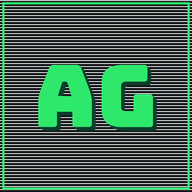
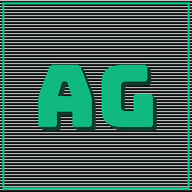
Troca o verde do site para verde esmeralda
Claude-Session: https://claude.ai/code/session_01K24T1nhc6RYEsYtFZXegcg

Changed region(s): [[0.0, 0.0, 1.0, 1.0], [0.1875, 0.3125, 0.5, 0.6875], [0.5312, 0.3125, 0.8125, 0.6875]]

diff --git a/app/page.js b/app/page.js
@@ -18,7 +18,7 @@ function FaixaNews({posts}) {
         <h2 className="text-5xl font-black tracking-[-.075em] text-paper sm:text-7xl lg:text-[6rem]">Notícias</h2>
         <Link href="/noticias" className="pb-2 text-sm font-bold uppercase tracking-wider text-arcade hover:text-paper">Mais notícias&nbsp; ›</Link>
       </div>
-      <div className="flex snap-x snap-mandatory gap-4 overflow-x-auto pb-5 sm:gap-6" style={{scrollbarWidth:"thin",scrollbarColor:"#9be22d transparent"}}>
+      <div className="flex snap-x snap-mandatory gap-4 overflow-x-auto pb-5 sm:gap-6" style={{scrollbarWidth:"thin",scrollbarColor:"#10b981 transparent"}}>
         {items.map((p)=><Link key={p.slug} href={`/noticia/${p.slug}`} className="group w-[83%] shrink-0 snap-start sm:w-[47%] lg:w-[32%]">
           <div className="aspect-[16/10] overflow-hidden rounded-lg bg-black">
             <img {...imgOtimizada(p.image,"(min-width: 1024px) 33vw, (min-width: 640px) 50vw, 100vw")} alt={p.imageAlt||p.title} loading="lazy" decoding="async" className="h-full w-full object-cover transition-transform duration-500 group-hover:scale-[1.025]" style={{objectPosition:p.imagePos||"center"}} />
@@ -40,7 +40,7 @@ function ArtigosEspeciais({posts}) {
         <h2 className="text-[2.5rem] font-black leading-none tracking-[-.065em] text-paper sm:text-6xl lg:text-[5rem]">Artigos especiais</h2>
         <Link href="/artigos" className="shrink-0 pb-1 text-xs font-bold uppercase tracking-wider text-arcade hover:text-paper sm:text-sm">Mais artigos&nbsp; ›</Link>
       </div>
-      <div className="flex snap-x snap-mandatory gap-4 overflow-x-auto pb-5 sm:gap-6" style={{scrollbarWidth:"thin",scrollbarColor:"#9be22d transparent"}}>
+      <div className="flex snap-x snap-mandatory gap-4 overflow-x-auto pb-5 sm:gap-6" style={{scrollbarWidth:"thin",scrollbarColor:"#10b981 transparent"}}>
         {items.map((p)=><Link key={p.slug} href={`/noticia/${p.slug}`} className="group w-[83%] shrink-0 snap-start sm:w-[47%] lg:w-[32%]">
           <div className="aspect-[16/10] overflow-hidden rounded-lg bg-black">
             <img {...imgOtimizada(p.image,"(min-width: 1024px) 33vw, (min-width: 640px) 50vw, 100vw")} alt={p.imageAlt||p.title} loading="lazy" decoding="async" className="h-full w-full object-cover transition-transform duration-500 group-hover:scale-[1.025]" style={{objectPosition:p.imagePos||"center"}} />
@@ -63,7 +63,7 @@ function FaixaEditorial({ posts, titulo, href, mais, categorias, id }) {
         <h2 className="text-[2.5rem] font-black leading-none tracking-[-.075em] text-paper sm:text-7xl lg:text-[6rem]">{titulo}</h2>
         <Link href={href} className="shrink-0 pb-2 text-xs font-bold uppercase tracking-wider text-arcade hover:text-paper sm:text-sm">{mais}&nbsp; ›</Link>
       </div>
-      <div className="flex snap-x snap-mandatory gap-4 overflow-x-auto pb-5 sm:gap-6" style={{scrollbarWidth:"thin",scrollbarColor:"#9be22d transparent"}}>
+      <div className="flex snap-x snap-mandatory gap-4 overflow-x-auto pb-5 sm:gap-6" style={{scrollbarWidth:"thin",scrollbarColor:"#10b981 transparent"}}>
         {items.map((p) => <Link key={p.slug} href={`/noticia/${p.slug}`} className="group w-[83%] shrink-0 snap-start sm:w-[47%] lg:w-[32%]">
           <div className="aspect-[16/10] overflow-hidden rounded-lg bg-black">
             <img {...imgOtimizada(p.image,"(min-width: 1024px) 33vw, (min-width: 640px) 50vw, 100vw")} alt={p.imageAlt||p.title} loading="lazy" decoding="async" className="h-full w-full object-cover transition-transform duration-500 group-hover:scale-[1.025]" style={{objectPosition:p.imagePos||"center"}} />

diff --git a/app/globals.css b/app/globals.css
@@ -10,25 +10,25 @@ body {
   @apply bg-ink text-paper font-body antialiased;
   /* Brilho verde ao fundo, no clima do logo da Xbox */
   background-image:
-    radial-gradient(ellipse 70% 38% at 50% 0%, rgba(155, 226, 45, 0.10), transparent 70%),
+    radial-gradient(ellipse 70% 38% at 50% 0%, rgba(16, 185, 129, 0.10), transparent 70%),
     radial-gradient(ellipse 80% 30% at 50% 100%, rgba(80, 170, 20, 0.12), transparent 75%);
   background-attachment: fixed;
 }
 
 /* Verde com brilho (neon) */
 .text-arcade {
-  text-shadow: 0 0 10px rgba(155, 226, 45, 0.55), 0 0 22px rgba(120, 210, 30, 0.25);
+  text-shadow: 0 0 10px rgba(16, 185, 129, 0.55), 0 0 22px rgba(5, 150, 105, 0.25);
 }
 .bg-arcade {
-  background-image: linear-gradient(180deg, #b8f04a 0%, #9be22d 45%, #6fb81c 100%);
-  box-shadow: 0 0 18px rgba(155, 226, 45, 0.45), inset 0 1px 0 rgba(255, 255, 255, 0.35);
+  background-image: linear-gradient(180deg, #34d399 0%, #10b981 45%, #059669 100%);
+  box-shadow: 0 0 18px rgba(16, 185, 129, 0.45), inset 0 1px 0 rgba(255, 255, 255, 0.35);
 }
 .border-arcade {
-  box-shadow: 0 0 14px rgba(155, 226, 45, 0.30);
+  box-shadow: 0 0 14px rgba(16, 185, 129, 0.30);
 }
 a:hover .border-arcade,
 .hover\:border-arcade:hover {
-  box-shadow: 0 0 18px rgba(155, 226, 45, 0.45);
+  box-shadow: 0 0 18px rgba(16, 185, 129, 0.45);
 }
 
 /* Ticker de últimas notícias */
@@ -83,12 +83,12 @@ button:focus-visible {
   line-height: 1;
   text-shadow:
     0 0.045em 0 #050806,
-    0 0.075em 0 #9be22d,
+    0 0.075em 0 #10b981,
     0 0.105em 0 #050806,
-    0 0.135em 0 #9be22d,
+    0 0.135em 0 #10b981,
     0 0.165em 0 #050806,
-    0 0.195em 0 rgba(155, 226, 45, 0.55),
-    0 0 18px rgba(155, 226, 45, 0.45),
+    0 0.195em 0 rgba(16, 185, 129, 0.55),
+    0 0 18px rgba(16, 185, 129, 0.45),
     0 0 36px rgba(110, 200, 25, 0.25);
   padding-bottom: 0.2em;
 }
@@ -116,7 +116,7 @@ button:focus-visible {
     border-right: 1px solid rgba(255, 255, 255, 0.08);
     box-shadow:
       0 0 0 8px #050806,
-      0 0 0 10px rgba(155, 226, 45, 0.25),
+      0 0 0 10px rgba(16, 185, 129, 0.25),
       0 24px 60px rgba(0, 0, 0, 0.6);
     overflow-x: hidden;
   }

diff --git a/components/OfertasAmazon.js b/components/OfertasAmazon.js
@@ -7,7 +7,7 @@ export default function OfertasAmazon({ ofertas = [], tema, titulo = "Ofertas" }
   return (
     <section className="py-8" aria-label={titulo}>
       <h2 className="mb-5 text-[2.5rem] font-black leading-none tracking-[-.075em] text-paper sm:text-7xl lg:text-[6rem]">{titulo}</h2>
-      <div className="flex snap-x snap-mandatory gap-4 overflow-x-auto pb-5" style={{ scrollbarWidth: "thin", scrollbarColor: "#9be22d transparent" }}>
+      <div className="flex snap-x snap-mandatory gap-4 overflow-x-auto pb-5" style={{ scrollbarWidth: "thin", scrollbarColor: "#10b981 transparent" }}>
         {lista.map((o) => (
           <a
             key={o.link}

diff --git a/tailwind.config.js b/tailwind.config.js
@@ -9,7 +9,7 @@ module.exports = {
         edge: "#1D2B20",
         paper: "#EDEFF7",
         dim: "#93A3AF",
-        arcade: "#9BE22D",
+        arcade: "#10B981",
         violet: "#4D9FFF",
         retro: "#2BD9C8",
       },
